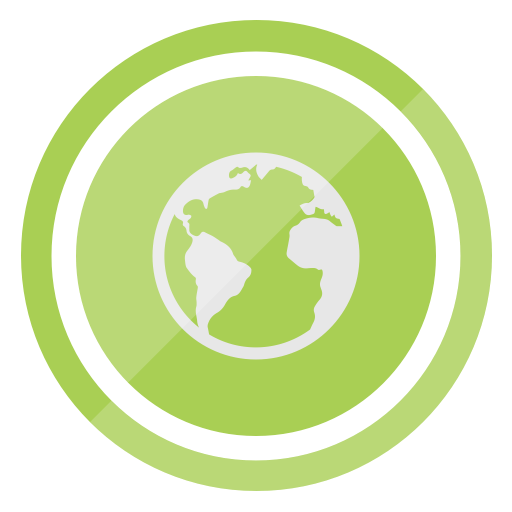
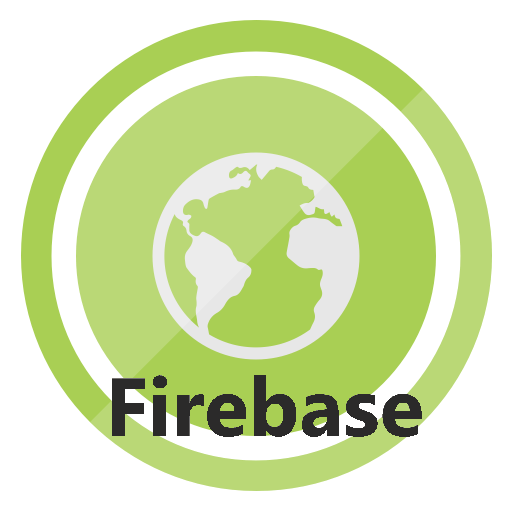
update to portfolio

Changed region(s): [[0.2188, 0.7188, 0.8438, 0.875]]

diff --git a/Portfolio.html b/Portfolio.html
@@ -26,22 +26,32 @@
 
 
 <div class="container">    
-  <br><div class="row">
-    <div class="col-sm-8"> 
-    <div class="box">
+<br><div class="row">
+<div class="col-sm-8"> 
+<div class="box">
             <br><h5>~ Portfolio :</h5>
             <HR>
-            <img src="images/Analytics2.png" alt="Analytics" width="124" height="124" border="0"></a></caption>
-            
-            
+
+
+            <a href="https://imaginethat01.github.io/imaginethat01.github.io-Integration1.0/">        
+            <img src="images/project.png" alt="Analytics" width="124" height="124" border="0"></a>
+
+
+            <a href="https://imaginethat01.github.io/imaginethat01.github.io-firebaseexample/">
             <img src="images/Design2.png" alt="Design" width="124" height="124" border="0"></a>
             
+
+            <a href="https://imaginethat01.github.io/imaginethat01.github.io-Ajax-GiphyAPI/">     
+            <img src="images/giphyicon.png" alt="Design" width="124" height="124" border="0"></a>
+
+
             <a href="https://imaginethat01.github.io/imaginethat01.github.io-debtcollector/">
             <img src="images/Application2.png" alt="Application" width="124" height="124" border="0"></a>
             
+
             <a href="https://imaginethat01.github.io/imaginethat01.github.io-Hangman-Game/">
             <img src="images/chess1.png" alt="Application" width="124" height="124" border="0"></a>
-            
+        
             
             <h3 class="center">Creative Solutions. Simple Implementations.</h3>
             <br>

diff --git a/style.css b/style.css
@@ -340,5 +340,8 @@ input[type=submit]:hover {
     overflow: auto;
 }
 
-          
-                                 
+.bottom-left {
+    position: absolute;
+    bottom: 8px;
+    left: 16px;
+}
